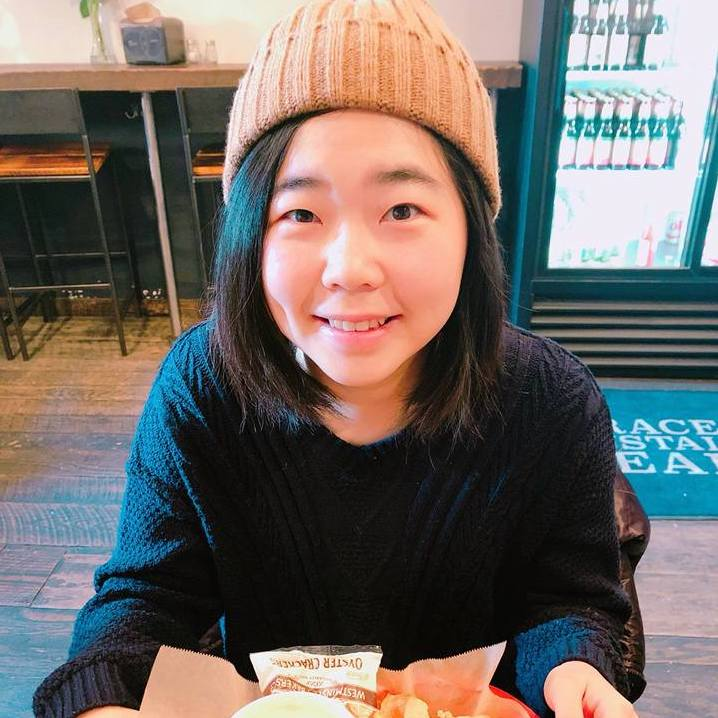
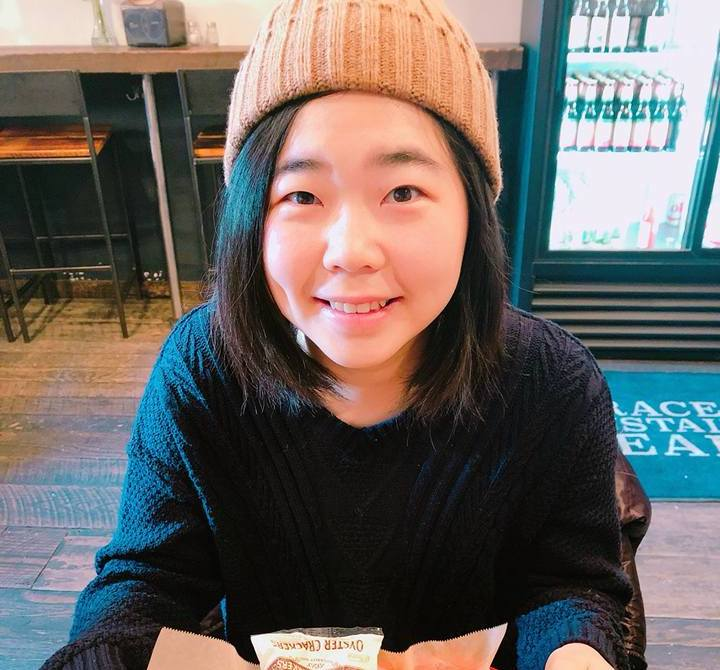
Modified and change the head shot (img1) of About.vue

diff --git a/src/components/pages/About.vue b/src/components/pages/About.vue
@@ -252,8 +252,8 @@ html {
 export default {
   data() {
     return {
-      img1: "static/images/head-1.png",
-      img2: "static/images/head-2.jpg",
+      img1: "static/images/About/head.jpg",
+      img2: "static/images/About/head-2.jpg",
       
     };
   }
